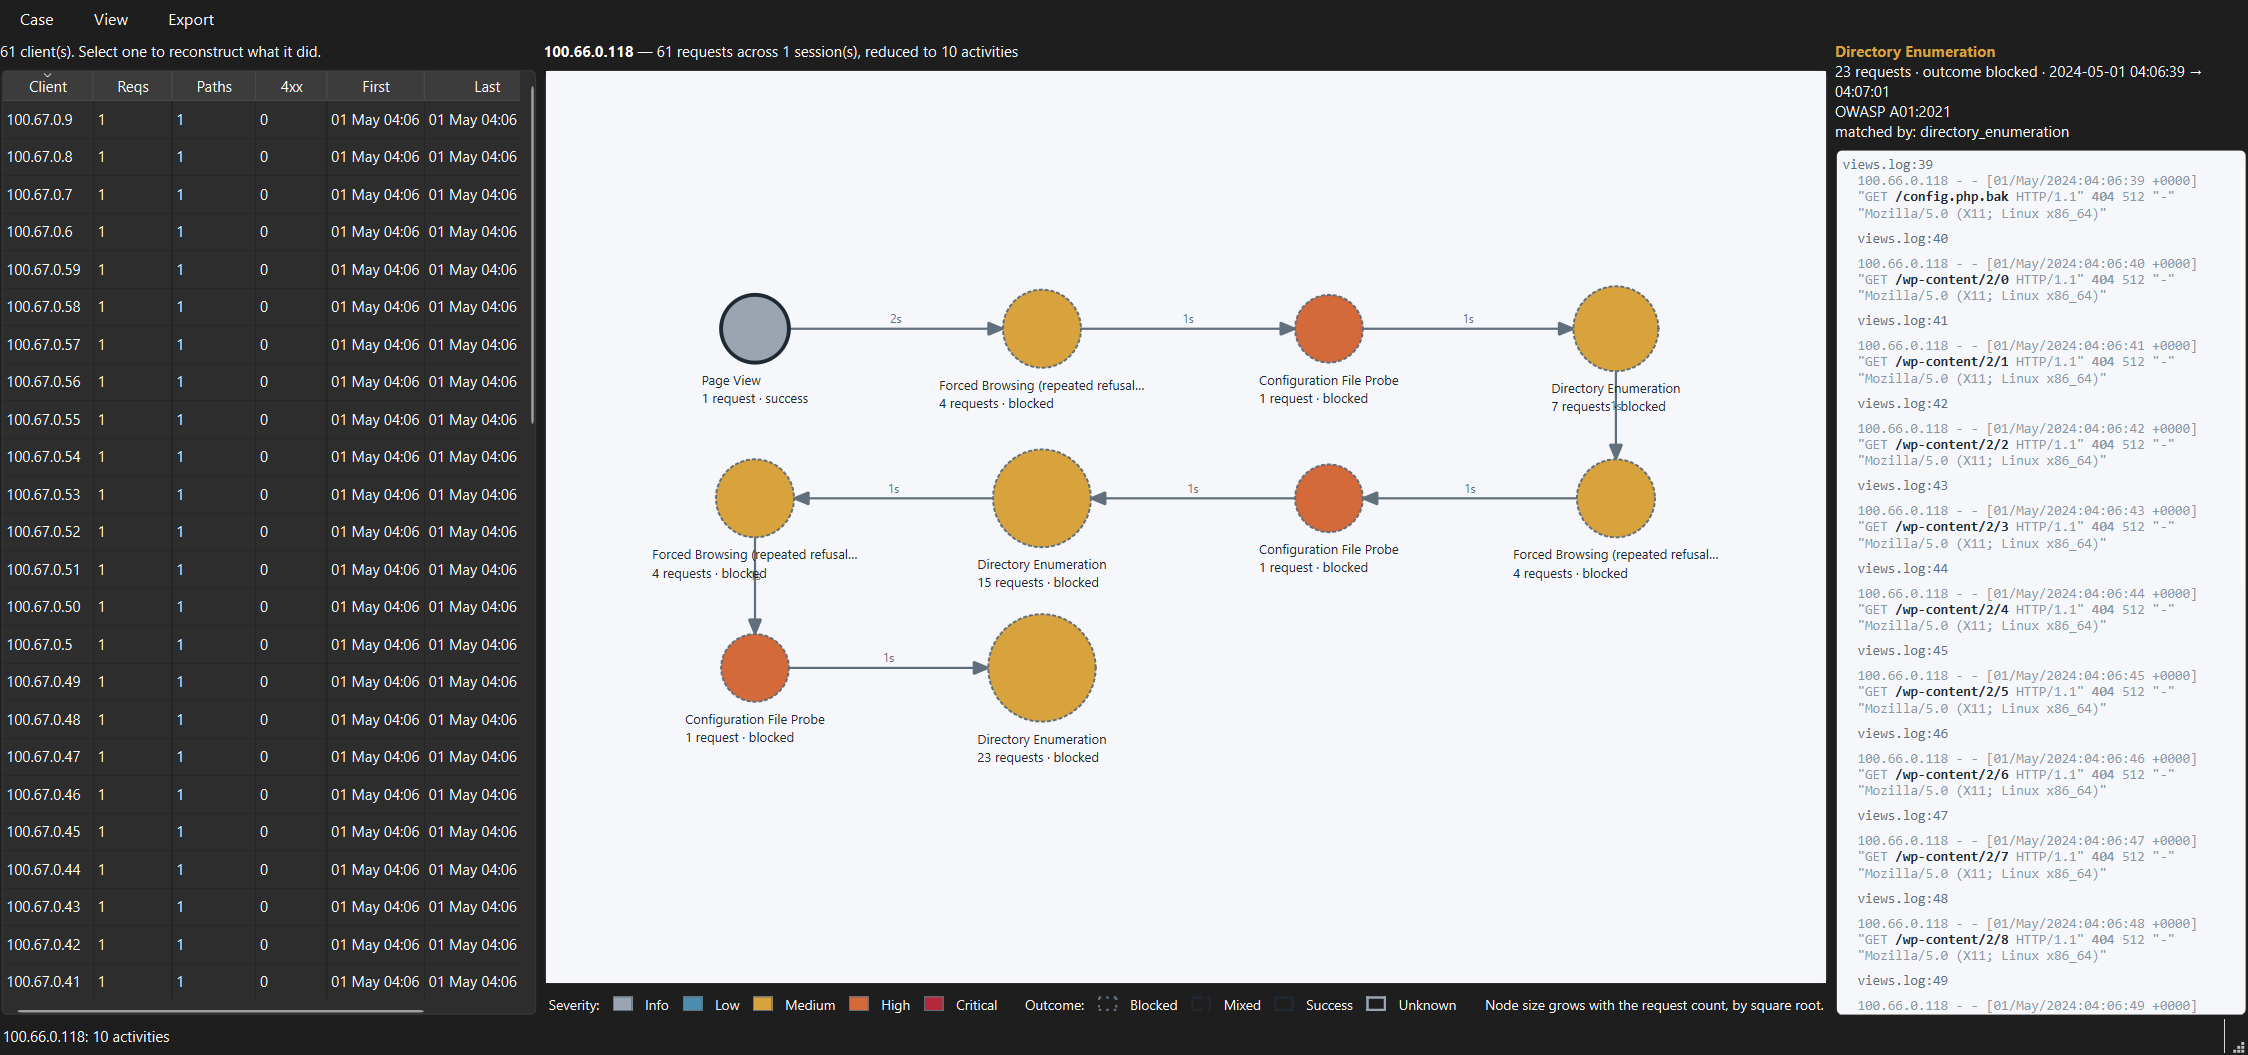
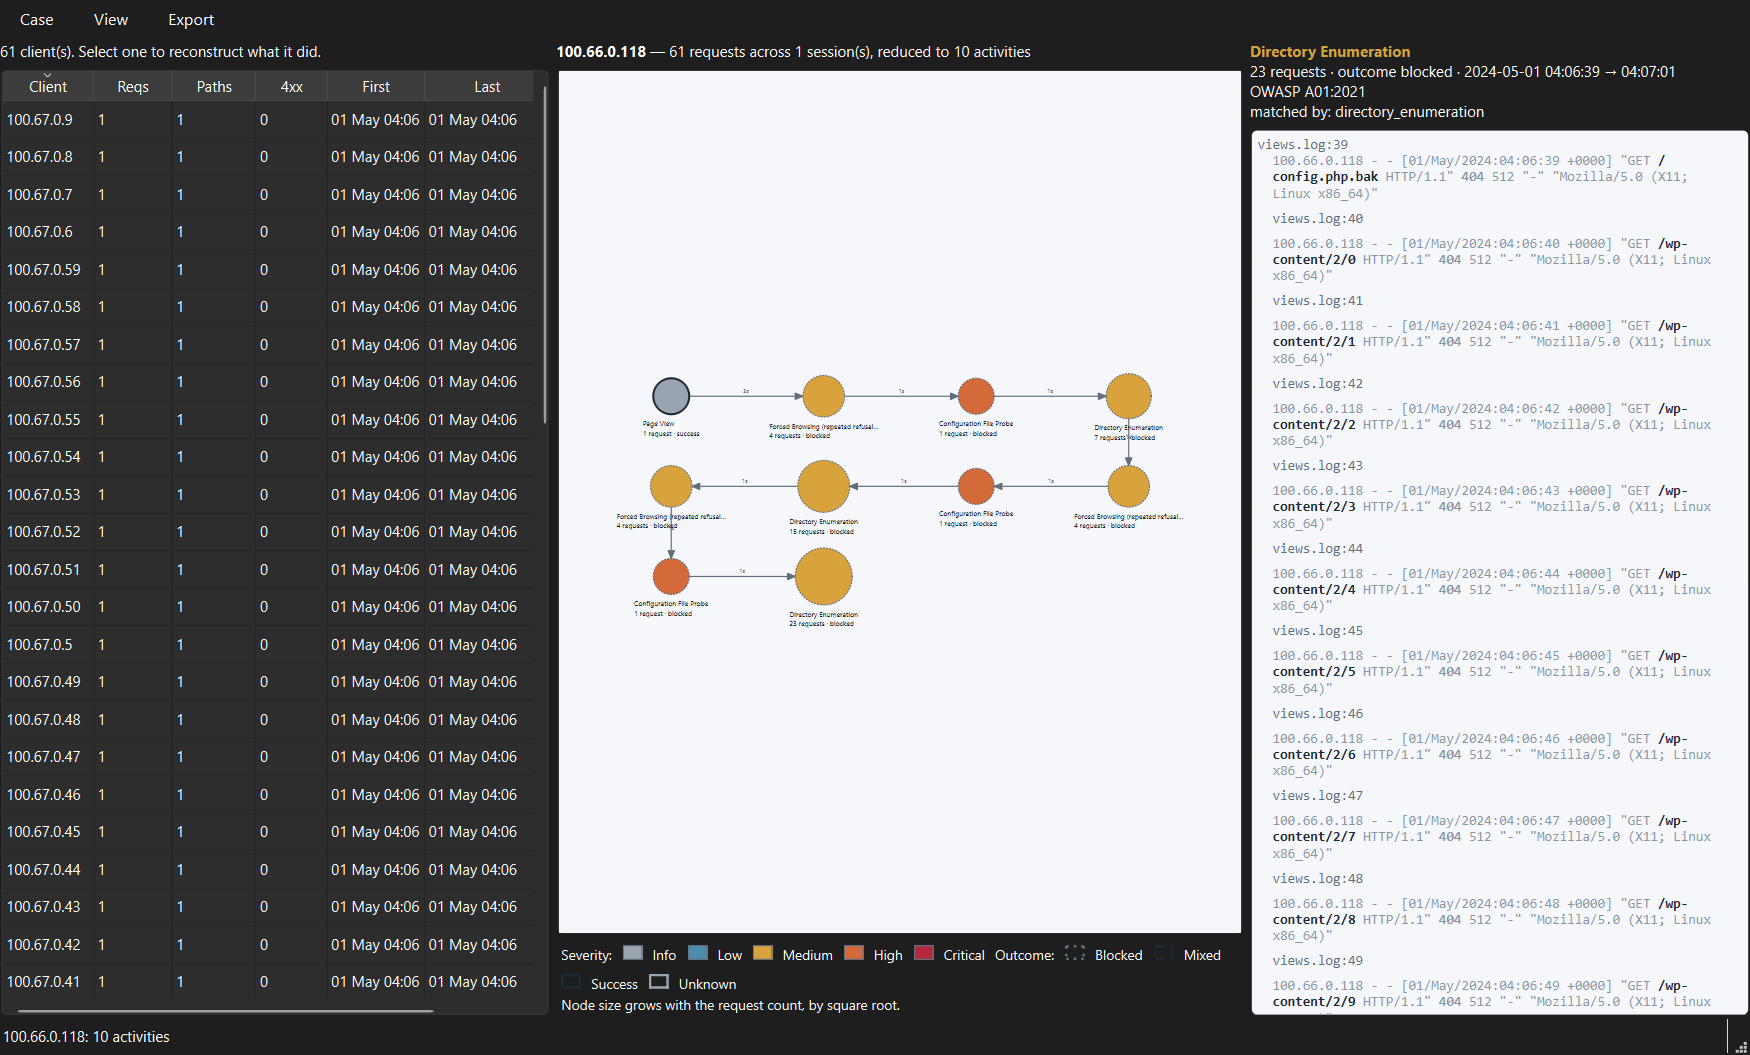
fix(gui): let the side panels be resized again
The key added below the canvas was laid out as one unbroken horizontal
row, and reported a minimum width of 1,729px -- wider than the 1,725px
window it was sitting in. A minimum is a demand, not a preference: the
centre column inherited it, both side panels were pinned at their own
minimums to pay for it, and with no slack left anywhere the splitter
handles had nothing to give.

Measured on the client panel before the fix: exactly one reachable
width, or zero if collapsed. Dragging it did nothing until it jumped the
whole way, which is what "stuck" looks like from the outside. After:
twenty-three reachable widths across the same sweep, each one landing
exactly where it was asked to.

A key is a set of small independent items, so it gets a layout that
wraps onto as many rows as it needs and asks for no more width than its
widest single entry -- 107px now. The size note goes on its own wrapped
line rather than into the flow, because it is a sentence rather than a
swatch and its 600px was setting the minimum for the whole key.

Two things that were papering over it also go. The 430px floor on the
client table was the wrong tool for stopping its columns hiding: it
worked by forbidding every narrower width. Stretch factors do that job
properly -- extra width goes to the graph and the panels keep whatever
they were set to. And children no longer collapse, so no panel can be
dragged down to a handle flat against the window edge that is hard to
find and harder to explain.
[…]

Changed region(s): [[0.0, 0.0, 1.0, 0.9706], [0.0, 0.9706, 0.0926, 1.0], [0.9874, 0.9706, 1.0, 1.0]]

diff --git a/src/logarc/gui/panels.py b/src/logarc/gui/panels.py
@@ -9,7 +9,7 @@ from __future__ import annotations
 
 from typing import TYPE_CHECKING
 
-from PyQt6.QtCore import Qt, pyqtSignal
+from PyQt6.QtCore import QPoint, QRect, QSize, Qt, pyqtSignal
 from PyQt6.QtGui import (
     QColor,
     QFont,
@@ -21,9 +21,10 @@ from PyQt6.QtGui import (
 )
 from PyQt6.QtWidgets import (
     QAbstractItemView,
-    QHBoxLayout,
     QHeaderView,
     QLabel,
+    QLayout,
+    QLayoutItem,
     QTableWidget,
     QTableWidgetItem,
     QTextEdit,
@@ -146,6 +147,87 @@ class ClientTable(QWidget):
                 self.client_chosen.emit(cell.text())
 
 
+class _FlowLayout(QLayout):
+    """Items in a row that wraps onto further rows when the width runs out.
+
+    Qt ships nothing like it, and the legend needs one. Laid out as a single
+    horizontal row the key reported a minimum width of **1,729px** — wider than
+    the window it sits in — and a minimum is a demand, not a preference. The
+    centre column inherited it, both side panels were pinned at their own
+    minimums to pay for it, and with no slack left anywhere the splitter handles
+    stopped moving: the client panel could be its minimum or collapsed, and
+    nothing in between.
+
+    A key is a set of small independent items. It should take as many rows as it
+    needs and ask for no more width than its widest single entry.
+    """
+
+    def __init__(self, parent: QWidget | None = None, spacing: int = 10) -> None:
+        super().__init__(parent)
+        self._items: list[QLayoutItem] = []
+        self.setSpacing(spacing)
+
+    # -- the five methods QLayout requires a subclass to provide -------------
+
+    def addItem(self, item: QLayoutItem | None) -> None:  # noqa: N802 - Qt's naming
+        if item is not None:
+            self._items.append(item)
+
+    def count(self) -> int:
+        return len(self._items)
+
+    def itemAt(self, index: int) -> QLayoutItem | None:  # noqa: N802 - Qt's naming
+        return self._items[index] if 0 <= index < len(self._items) else None
+
+    def takeAt(self, index: int) -> QLayoutItem | None:  # noqa: N802 - Qt's naming
+        return self._items.pop(index) if 0 <= index < len(self._items) else None
+
+    # -- how it sizes --------------------------------------------------------
+
+    def expandingDirections(self) -> Qt.Orientation:  # noqa: N802 - Qt's naming
+        return Qt.Orientation(0)
+
+    def hasHeightForWidth(self) -> bool:  # noqa: N802 - Qt's naming
+        return True
+
+    def heightForWidth(self, width: int) -> int:  # noqa: N802 - Qt's naming
+        return self._lay_out(QRect(0, 0, width, 0), place=False)
+
+    def setGeometry(self, rect: QRect) -> None:  # noqa: N802 - Qt's naming
+        super().setGeometry(rect)
+        self._lay_out(rect, place=True)
+
+    def sizeHint(self) -> QSize:  # noqa: N802 - Qt's naming
+        return self.minimumSize()
+
+    def minimumSize(self) -> QSize:  # noqa: N802 - Qt's naming
+        """One item wide. This is the number the whole window was hostage to."""
+        size = QSize()
+        for item in self._items:
+            size = size.expandedTo(item.minimumSize())
+        margins = self.contentsMargins()
+        return size + QSize(margins.left() + margins.right(), margins.top() + margins.bottom())
+
+    def _lay_out(self, rect: QRect, *, place: bool) -> int:
+        """Place each item, wrapping at the edge; returns the height used."""
+        margins = self.contentsMargins()
+        left = rect.x() + margins.left()
+        right = rect.right() - margins.right()
+        x, y, row_height = left, rect.y() + margins.top(), 0
+
+        for item in self._items:
+            hint = item.sizeHint()
+            if x > left and x + hint.width() > right:
+                x, y = left, y + row_height + self.spacing()
+                row_height = 0
+            if place:
+                item.setGeometry(QRect(QPoint(x, y), hint))
+            x += hint.width() + self.spacing()
+            row_height = max(row_height, hint.height())
+
+        return y + row_height + margins.bottom() - rect.y()
+
+
 class LegendBar(QWidget):
     """The key to the canvas: what colour, outline and size each mean.
 
@@ -159,16 +241,16 @@ class LegendBar(QWidget):
 
     def __init__(self) -> None:
         super().__init__()
-        row = QHBoxLayout(self)
-        row.setContentsMargins(4, 2, 4, 2)
-        row.setSpacing(10)
+        column = QVBoxLayout(self)
+        column.setContentsMargins(4, 2, 4, 2)
+        column.setSpacing(2)
 
+        row = _FlowLayout(spacing=8)
         row.addWidget(self._caption("Severity:"))
         for item in severity_legend():
             row.addWidget(self._swatch(item.colour, filled=True))
             row.addWidget(self._caption(item.label))
 
-        row.addSpacing(12)
         row.addWidget(self._caption("Outcome:"))
         for item in outcome_legend():
             border = item.border
@@ -177,9 +259,21 @@ class LegendBar(QWidget):
             )
             row.addWidget(self._caption(item.label))
 
-        row.addSpacing(12)
-        row.addWidget(self._caption(SIZE_NOTE))
-        row.addStretch(1)
+        column.addLayout(row)
+
+        # On its own line, and wrapped. It is a sentence rather than a swatch,
+        # and as one item in the flow its 600px was the whole key's minimum —
+        # a wrapping row is only as narrow as its widest single entry.
+        note = self._caption(SIZE_NOTE)
+        note.setWordWrap(True)
+        column.addWidget(note)
+
+        # Tell the parent layout that this widget's height depends on the width
+        # it is given, or it is asked for one height, keeps it, and the wrapped
+        # rows are drawn outside the space reserved for them.
+        policy = self.sizePolicy()
+        policy.setHeightForWidth(True)
+        self.setSizePolicy(policy)
 
     @staticmethod
     def _caption(text: str) -> QLabel:

diff --git a/tests/gui/test_window.py b/tests/gui/test_window.py
@@ -21,7 +21,7 @@ os.environ.setdefault("QT_QPA_PLATFORM", "offscreen")
 pytest.importorskip("PyQt6", reason="the GUI extra is not installed")
 
 from PyQt6.QtGui import QPalette
-from PyQt6.QtWidgets import QApplication
+from PyQt6.QtWidgets import QApplication, QSplitter
 
 from logarc.analysis import analyse_ip
 from logarc.case import Case
@@ -193,6 +193,98 @@ def test_the_window_constructs(qt_app: QApplication) -> None:
     window = MainWindow()
 
     assert window.windowTitle().startswith("logarc")
+    window.close()
+
+
+def _laid_out(width: int = 1400) -> tuple[MainWindow, QSplitter]:
+    """A shown window, with its splitter sized directly.
+
+    `window.resize` does not reach the central widget under the offscreen
+    platform this suite runs on — it reports the same width before and after,
+    which makes a resize test look like it passed while measuring nothing.
+    Sizing the splitter itself does work, and is what these tests are about.
+    """
+    window = MainWindow()
+    window.show()
+    splitter = window.centralWidget()
+    assert isinstance(splitter, QSplitter)
+    splitter.resize(width, 880)
+    QApplication.processEvents()
+    return window, splitter
+
+
+def test_the_legend_does_not_dictate_how_wide_the_window_must_be(
+    qt_app: QApplication,
+) -> None:
+    """The root of the frozen splitter. Laid out as one unbroken row, the key
+    demanded 1,729px — wider than the 1,725px window it was sitting in. The
+    centre column inherited that minimum, so both side panels were pinned at
+    theirs, and with no slack anywhere a drag had nothing to give: the client
+    panel could only be its minimum or collapsed, never anything between.
+
+    A key is a set of small independent items. It should take as many rows as
+    it needs and demand no more width than its widest single entry.
+    """
+    from logarc.gui.panels import LegendBar
+
+    assert LegendBar().minimumSizeHint().width() < 320
+
+
+def test_the_legend_uses_more_rows_when_it_is_given_less_width(
+    qt_app: QApplication,
+) -> None:
+    """Wrapping, not clipping — every entry stays readable at any width."""
+    from logarc.gui.panels import LegendBar
+
+    bar = LegendBar()
+
+    assert bar.heightForWidth(400) > bar.heightForWidth(1400)
+
+
+def test_the_side_panels_resize_continuously_rather_than_snapping(qt_app: QApplication) -> None:
+    """A minimum wide enough to hold every column also forbids every width
+    below it. With collapsing still allowed the panel could reach 0 or 430 and
+    nothing in between, so dragging it either did nothing or jumped the whole
+    way — which is what "stuck" means here.
+    """
+    window, splitter = _laid_out()
+
+    reachable = set()
+    for want in range(240, 520, 20):
+        splitter.setSizes([want, 1400 - want - 320, 320])
+        QApplication.processEvents()
+        reachable.add(splitter.sizes()[0])
+
+    assert len(reachable) >= 10, f"only these widths are reachable: {sorted(reachable)}"
+    window.close()
+
+
+def test_the_client_table_still_opens_wide_enough_for_every_column(
+    qt_app: QApplication,
+) -> None:
+    """The regression this must not cause. A large minimum was what guaranteed
+    the six columns fitted; with the minimum lowered so the panel can be
+    resized, the opening size has to carry that guarantee instead."""
+    window, splitter = _laid_out()
+
+    assert splitter.sizes()[0] >= 420
+    window.close()
+
+
+def test_a_wider_window_gives_the_extra_room_to_the_graph(qt_app: QApplication) -> None:
+    """Without stretch factors the splitter shares new space out proportionally,
+    so widening the window fattens the side panels and the graph — the thing
+    being read — gains almost nothing."""
+    window, splitter = _laid_out(1400)
+    before = splitter.sizes()
+
+    splitter.resize(2000, 880)
+    QApplication.processEvents()
+    after = splitter.sizes()
+
+    assert after[1] - before[1] > 500, "the canvas should take nearly all of the extra 600"
+    assert abs(after[0] - before[0]) <= 20, "the client panel should keep its width"
+    assert abs(after[2] - before[2]) <= 20, "the evidence panel should keep its width"
     window.close()
 
 

diff --git a/src/logarc/gui/app.py b/src/logarc/gui/app.py
@@ -174,17 +174,31 @@ class MainWindow(QMainWindow):
         column.addWidget(self._canvas)
         column.addWidget(self._legend)
 
-        # A floor, not just an opening size. `setSizes` is a suggestion the
-        # splitter drops as soon as a child's size hint disagrees, and the
-        # table's hint is small enough that the six columns were squeezed
-        # back behind a scrollbar however wide the initial share was set.
-        self._clients.setMinimumWidth(430)
-        self._evidence.setMinimumWidth(330)
+        # Small enough to leave the panel adjustable, which is the whole point
+        # of a splitter. A floor of 430 was set here to stop the client table
+        # being squeezed until three of its six columns hid — it worked, and it
+        # also meant the panel could be 430 or, by collapsing, 0, and nothing
+        # in between. Dragging it therefore did nothing until it jumped the
+        # whole way, which reads as a broken handle rather than a wide minimum.
+        self._clients.setMinimumWidth(220)
+        self._evidence.setMinimumWidth(200)
 
         splitter = QSplitter(Qt.Orientation.Horizontal)
         splitter.addWidget(self._clients)
         splitter.addWidget(centre)
         splitter.addWidget(self._evidence)
+
+        # What should actually have been protecting the table: extra width goes
+        # to the graph, and the side panels keep whatever the investigator set
+        # them to. That holds the columns open without forbidding any width.
+        splitter.setStretchFactor(0, 0)
+        splitter.setStretchFactor(1, 1)
+        splitter.setStretchFactor(2, 0)
+        # No collapsing to nothing. A panel dragged to zero leaves a handle
+        # against the window edge that is hard to find and harder to explain,
+        # and with a minimum in place the last part of that drag was a jump
+        # anyway. Continuous down to the minimum, and no further.
+        splitter.setChildrenCollapsible(False)
         splitter.setSizes([440, 560, 400])
         self.setCentralWidget(splitter)
 

diff --git a/CHANGELOG.md b/CHANGELOG.md
@@ -14,6 +14,18 @@ versioning follows [Semantic Versioning](https://semver.org/spec/v2.0.0.html).
   at 1.16 and thirty at 0.75. Short traces keep their straight line.
   See [ADR-0009](docs/adr/0009-parallel-ingest-rather-than-a-native-parser.md)'s
   neighbour, and the numbers in the commit.
+- **The side panels could not be resized at all.** The key added below the
+  canvas was one unbroken row and reported a minimum width of **1,729px** —
+  wider than the window it sat in. A minimum is a demand, so the centre column
+  inherited it and both side panels were pinned at their own minimums to pay for
+  it; with no slack anywhere, a splitter handle had nothing to give. Measured on
+  the client panel: **one** reachable width, or zero if collapsed. Dragging it
+  therefore did nothing until it jumped the whole way.
+  The key now wraps onto as many rows as it needs (107px minimum, 23 reachable
+  widths on the same panel), extra width goes to the graph rather than being
+  shared out, and panels no longer collapse to an invisible handle against the
+  window edge. The 430px floor put on the client table to stop its columns
+  hiding is gone — it was the wrong tool, and it was half of what wedged this.
 - **The evidence panel showed everything except the evidence.** Lines were not
   wrapped, and a Combined line spends its first forty-five characters on the
   client address and the timestamp — an address the reader picked from the table
